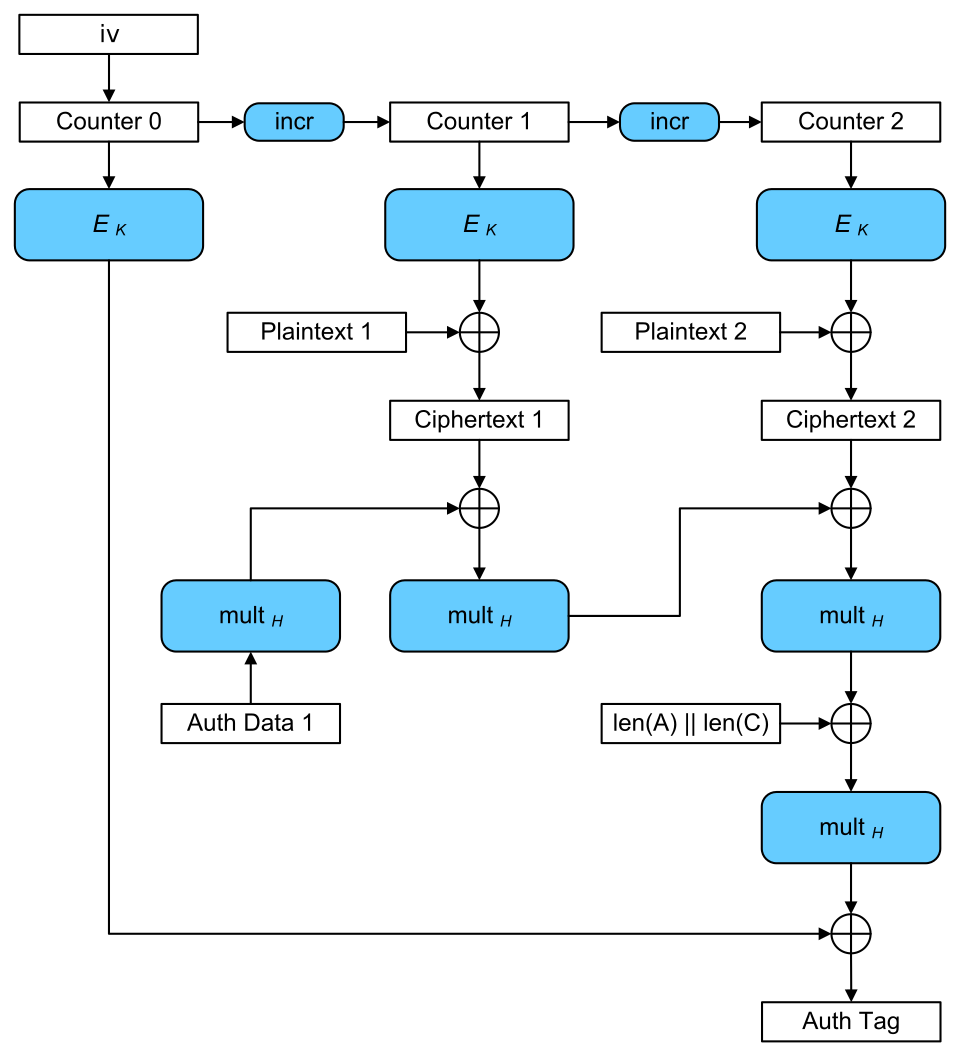
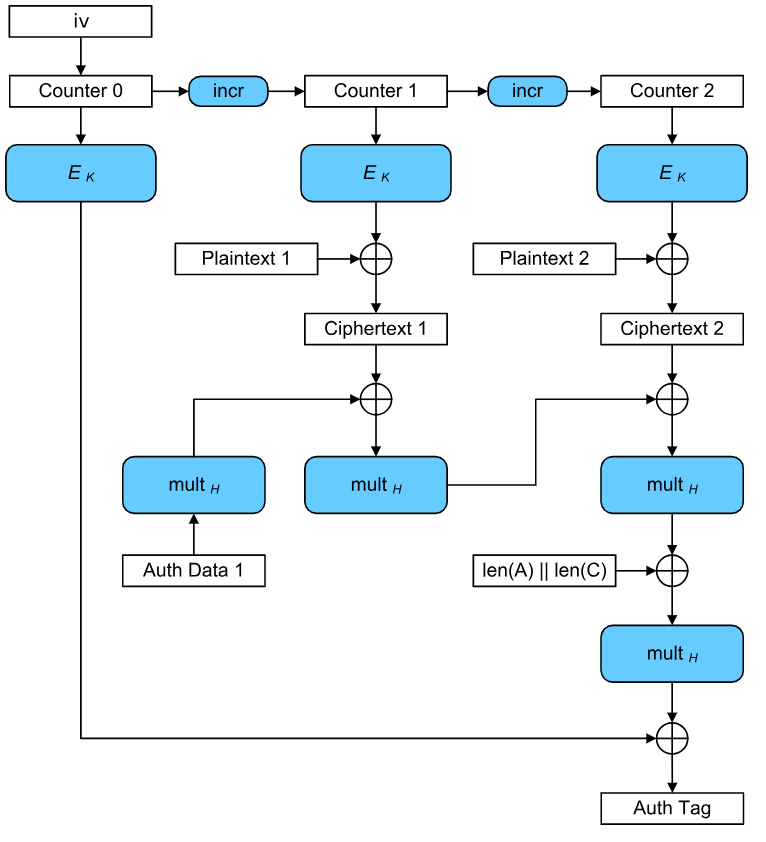
add

Changed region(s): [[0.0, 0.0, 0.9909, 0.9881]]

diff --git a/README.md b/README.md
@@ -32,7 +32,7 @@
 * **Key:** 128, 192, or 256-bit.
 * **Block:** 128-bit.
 * **Strength:** Theoretically, no practical attack against full-round AES is more efficient than brute-force.
-![images](https://www.geeksforgeeks.org/computer-networks/advanced-encryption-standard-aes/)
+![images](./docs/AES.png)
 
 ### 2.3. Modes of Operation
 AES/DES only encrypt a single, fixed-size block. To encrypt longer data, they require a "mode of operation," which is often the source of real-world vulnerabilities.
